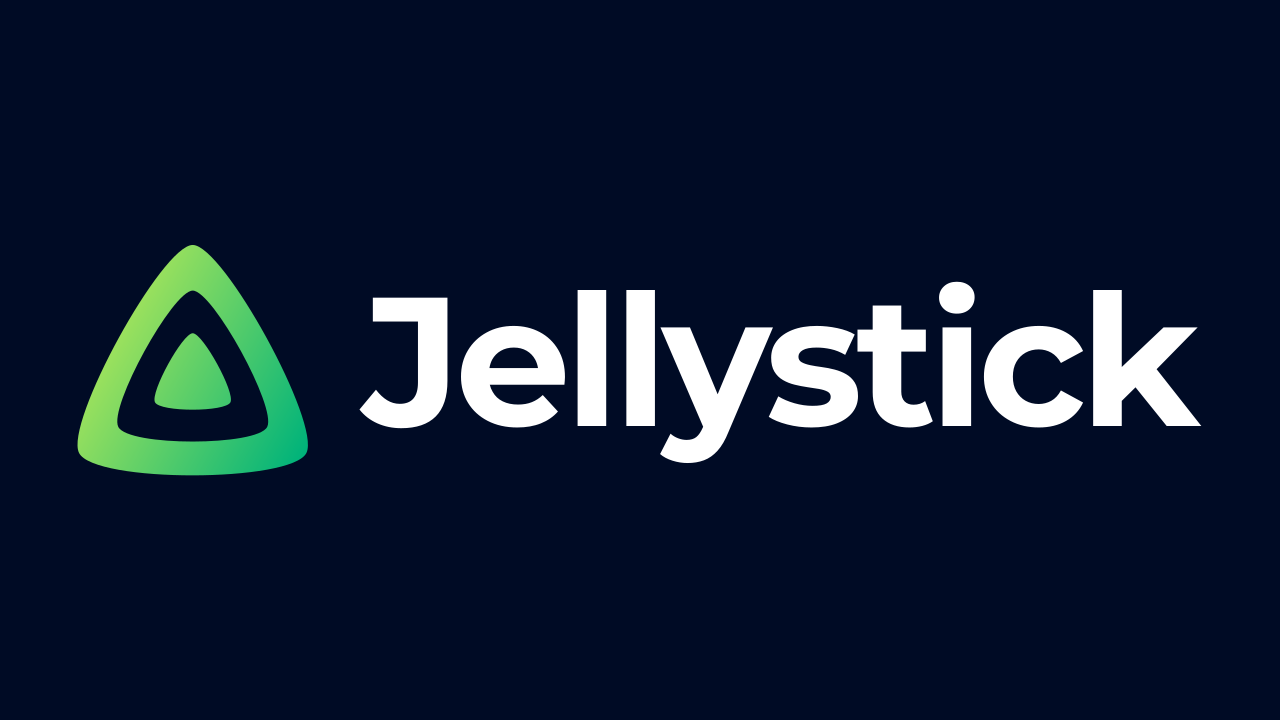
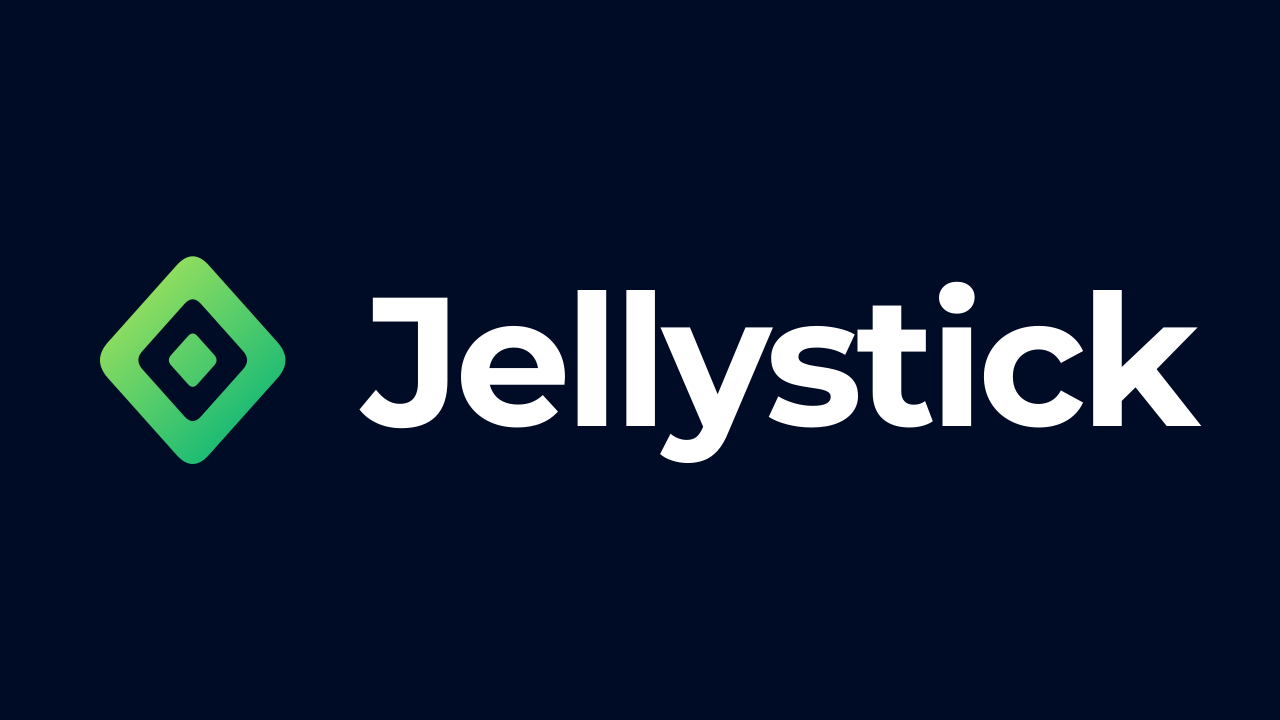
version 1.2.9 commit

Changed region(s): [[0.0625, 0.4583, 0.25, 0.6722], [0.0938, 0.3361, 0.1875, 0.4583]]

diff --git a/docs/MODERN_HOME.md b/docs/MODERN_HOME.md
@@ -523,7 +523,7 @@ de la Appstore.
 
 La app se llama **Jellystick** (también la versión debug: `app_name_release` y `app_name_debug` en
 `values/strings.xml`). El banner que muestra el Fire TV (`mipmap-*/app_banner.png` y
-`drawable/app_banner_foreground.xml`) lleva el logo de Jellyfin en verde (degradado `#9BE15D` → `#00B37A`) y el
+`drawable/app_banner_foreground.xml`) lleva el **rombo** de Jellystick en verde (degradado `#9BE15D` → `#00B37A`) y el
 nombre Jellystick, igual que el logo de dentro de la app (`drawable/app_logo.xml`, `drawable-v24/app_logo.xml`,
 colores en `values/logo.xml` y `src/debug/res/values/logo.xml`): arranque, barra y salvapantallas.
 
@@ -543,8 +543,13 @@ que desinstalar Jellystick e instalarla otra vez (reiniciar o borrar datos no ba
 
 Si el Fire TV sigue enseñando el banner o el nombre antiguos, desinstala la app y vuelve a instalarla (el
 launcher guarda la imagen de las apps ya instaladas); si aun así no cambia, reinicia el Fire TV. El icono
-(`mipmap-*/app_icon.png` y `drawable/app_icon_foreground.xml`) es el mismo logo en verde. El logo de Jellyfin
-tiene licencia CC BY-SA 4.0; el texto está dibujado con Montserrat Bold (SIL Open Font License).
+(`mipmap-*/app_icon.png` y `drawable/app_icon_foreground.xml`) es el mismo logo en verde.
+
+**El logo es propio**: un rombo (un poco más alto que ancho) con las esquinas redondeadas, hueco, y otro rombo
+pequeño dentro; ya no usa el triángulo de Jellyfin, que es una marca suya. Está en todos los sitios: icono
+(normal y monocromo), banner y casillas del Fire TV, logo de arranque, barra y salvapantallas, el icono de
+*Acerca de* y de los servidores en Ajustes (`drawable/ic_jellyfin.xml`, mismo nombre de recurso) y las imágenes
+de `docs/images`. El texto está dibujado con Montserrat Bold (SIL Open Font License).
 
 ## Clave de TMDB (opcional, para completar "Trending this week")
 

diff --git a/docs/RELEASE_NOTES.md b/docs/RELEASE_NOTES.md
@@ -51,7 +51,7 @@ Todo lo nuevo se puede desactivar en *Ajustes → Personalización → Inicio* p
 - Sin texto: géneros como tiles de color y etiquetas populares; búsqueda solo de música con géneros musicales.
 
 ### Fire TV
-- App propia **Jellystick** (`com.jellystick.tv`) con nombre, logo y banner verdes: se instala junto a la app oficial. En el inicio del Fire TV el logo va sobre el gris de la casilla, como las demás apps. El panel del servidor la muestra como *Jellystick*.
+- App propia **Jellystick** (`com.jellystick.tv`) con nombre, logo (un rombo propio) y banner verdes: se instala junto a la app oficial. En el inicio del Fire TV el logo va sobre el gris de la casilla, como las demás apps. El panel del servidor la muestra como *Jellystick*.
 - El reproductor se abre antes y tiene prioridad: al darle a reproducir, lo demás que se estaba cargando espera, y los episodios siguientes de la cola se piden ya reproduciendo.
 - **Idioma de la app** en Ajustes (debajo de Subtítulos): el de la tele o cualquiera de las traducciones de Jellyfin. Las pantallas nuevas de Jellystick están en inglés y español.
 - **Actualizar desde Ajustes**: descarga e instala la última versión publicada en GitHub. La versión de la app es la de la release (v1.2.2, v1.2.3…).

diff --git a/docs/RELEASE_NOTES_EN.md b/docs/RELEASE_NOTES_EN.md
@@ -51,7 +51,7 @@ Every new feature can be turned off in *Settings → Customization → Home* to 
 - Without text: genres as colour tiles and popular tags; music-only search with music genres.
 
 ### Fire TV
-- Its own **Jellystick** app (`com.jellystick.tv`) with a green name, logo and banner: installs next to the official app. On the Fire TV home screen the logo sits on the grey of the tile, like other apps. The server dashboard shows it as *Jellystick*.
+- Its own **Jellystick** app (`com.jellystick.tv`) with a green name, logo (its own rhombus) and banner: installs next to the official app. On the Fire TV home screen the logo sits on the grey of the tile, like other apps. The server dashboard shows it as *Jellystick*.
 - The player opens sooner and goes first: pressing play pauses whatever else was loading, and the next episodes of the queue are loaded once it plays.
 - **App language** in Settings (under Subtitles): the TV's or any of Jellyfin's translations. Jellystick's new screens are in English and Spanish.
 - **Update from Settings**: downloads and installs the latest version published on GitHub. The app version is the release's (v1.2.2, v1.2.3…).

diff --git a/README.md b/README.md
@@ -149,5 +149,5 @@ Jellystick is based on [Jellyfin for Android TV](https://github.com/jellyfin/jel
 [Jellyfin project](https://jellyfin.org) and its contributors, and keeps its license: the
 [GNU General Public License v2.0](LICENSE). Its source code is this repository.
 
-The logo is the Jellyfin logo (CC BY-SA 4.0) in green; the name is drawn with Montserrat Bold (SIL Open Font License).
+The rhombus logo is Jellystick's own; the name is drawn with Montserrat Bold (SIL Open Font License).
 Jellyfin is a trademark of its owners; Jellystick is not endorsed by them. Fire TV is a trademark of Amazon.
